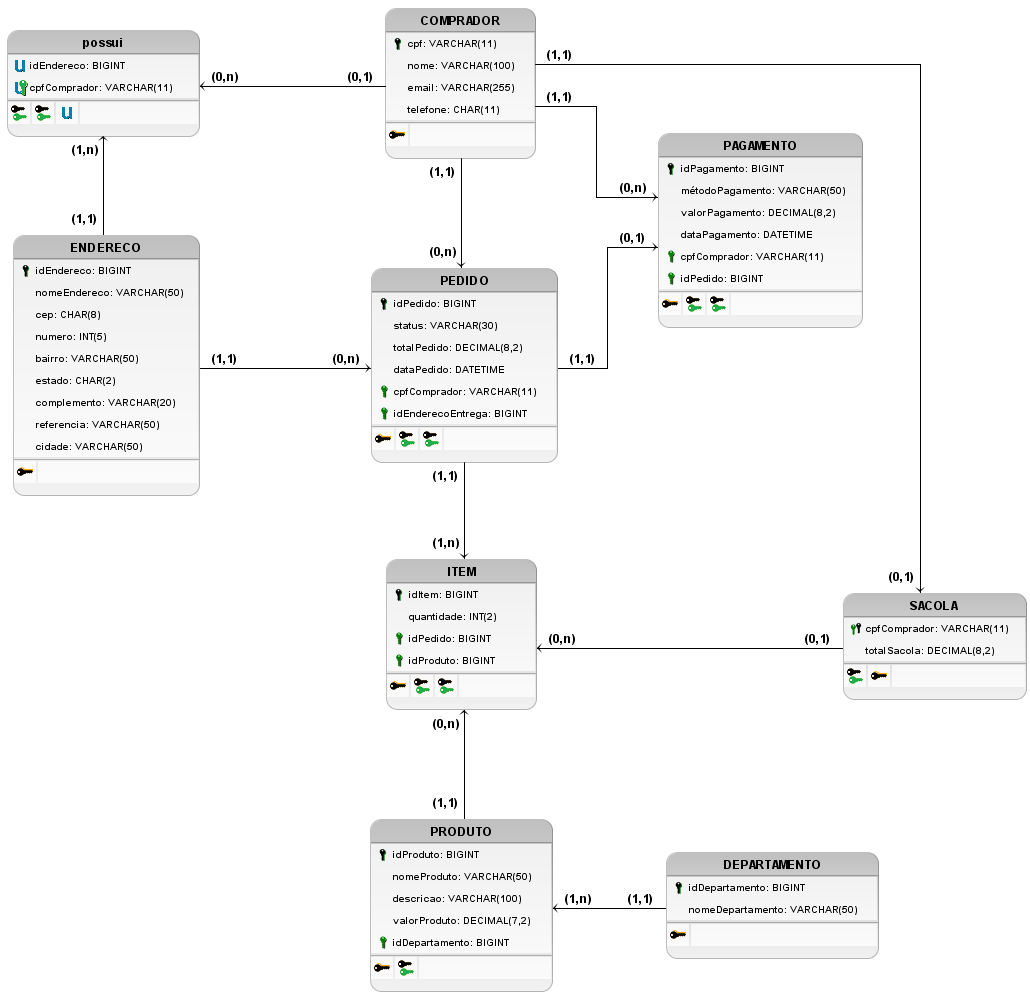
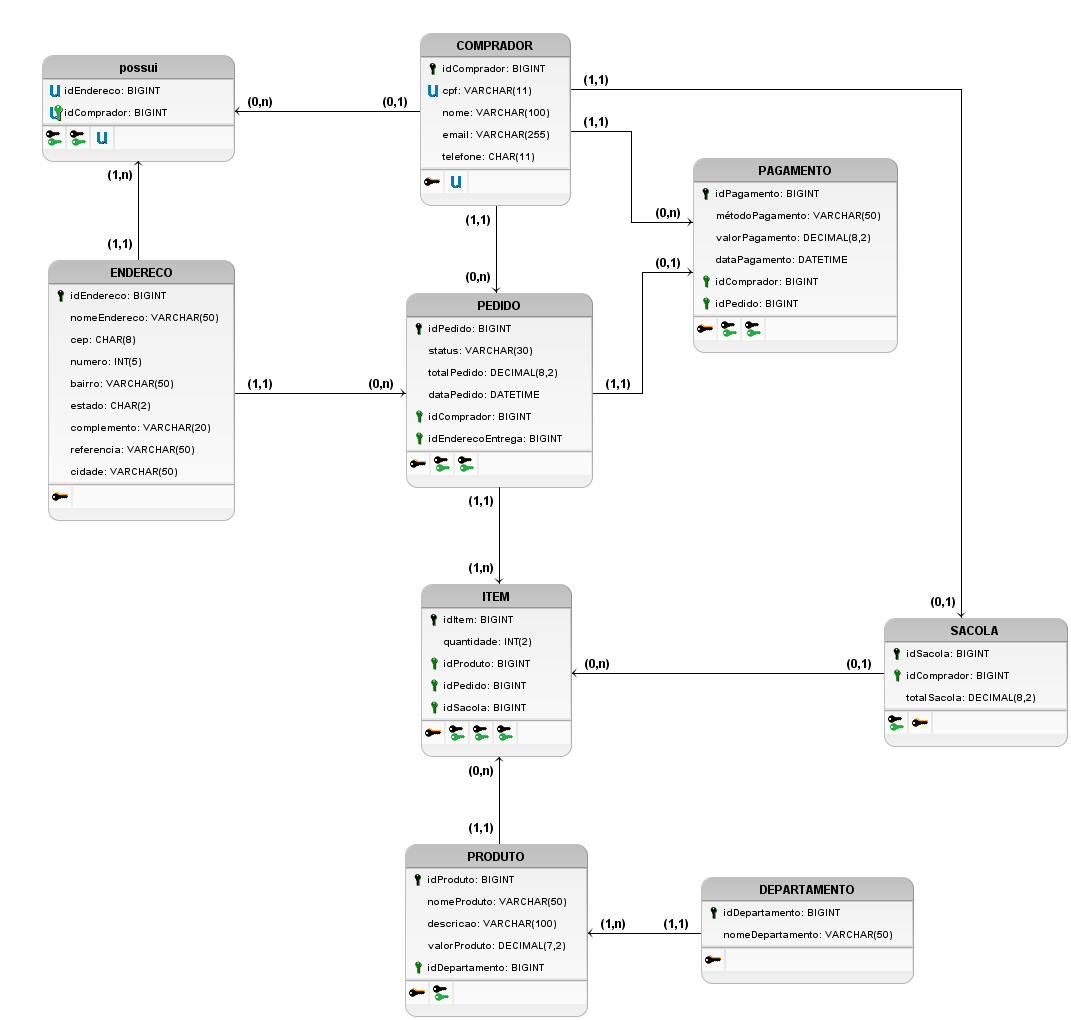
docs: corrige visao dados e adiciona conclusao

diff --git a/docs/ArquiteturaReutilizacao/visoes/visao-dados.md b/docs/ArquiteturaReutilizacao/visoes/visao-dados.md
@@ -1,12 +1,10 @@
-Em um sistema de e-commerce como o da Magalu, a camada de persistência de dados é importantíssima, são armazenados dados dos diferentes usuários, produtos, departamentos, pedidos, pagamentos, entre outros. Dito isso, a visão de dados da arquitetura permite uma descrição mais clara e concisa de quais são os dados do sistema, sua estruturação e como eles são persistidos.
+Em um sistema de e-commerce como o da Magalu, a camada de persistência de dados é importantíssima, visto que são armazenados dados dos diferentes usuários, produtos, departamentos, pedidos, pagamentos, entre outros. Dito isso, a visão de dados da arquitetura permite uma descrição mais clara e concisa de quais são os dados do sistema, sua estruturação e como eles são persistidos.
 
 ### Metodologia
 
 O banco de dados da aplicação foi modelado como um banco de dados relacional. Sendo assim, foram elaborados um total de três artefatos, sendo eles: o [Modelo Entidade-Relacionamento (MER)](#modelo-entidade-relacionamento) e o [Diagrama Entidade-Relacionamento (DER)](#diagrama-entidade-relacionamento), ambos no nível conceitual, e o [Diagrama Lógico de Dados (DLD)](#diagrama-lógico-de-dados) no nível lógico. 
 
 O esqueleto inicial do MER foi elaborado no dia 23/11/2023 com base no que já tinha sido modelado no [diagrama de classes](../../Modelagem/DiagramaClasses.md), sendo posteriormente refinado com base em discussões realizadas em uma reunião de brainstorming entre os membros do grupo. Após isso, o DER foi feito com base no que havia no MER e, diminuindo-se o nível de abstração, adentrou-se no nível lógico com o DLD.
-
-
 
 ### Modelo Entidade Relacionamento
 
@@ -104,3 +102,8 @@ Figura 2 - Diagrama Lógico de Dados
 </center>
 
 
+### Conclusão
+
+A representação dos dados por meio do Modelo Entidade-Relacionamento (MER), do Diagrama Entidade-Relacionamento (DER) e do Diagrama Lógico de Dados (DLD) proporcionou uma visão abrangente e detalhada das estruturas de persistência de dados do sistema. 
+
+Por um lado, com o MER e o DER, a visão de dados se aproxima de uma perspectiva mais conceitual e de nível de abstração semelhante à [visão lógica](#Visão-Lógica), já por outro, com a presença do DLD, apresenta uma visão mais física e próxima da implementação do código do banco de dados em si, com o próximo nível sendo justamente a implementação que pode ser observada no tópico de [Reutilização de Software]().

diff --git a/docs/ArquiteturaReutilizacao/DAS.md b/docs/ArquiteturaReutilizacao/DAS.md
@@ -38,3 +38,4 @@
 |----------|------------|-------------|------------|-----------|
 | 1.0      | Criação da estrutura da página   | [Douglas Alves](https://github.com/dougAlvs)   |  [Sidney Fernando](https://github.com/nando3d3)  | 23/11/2023|
 | 1.0.1      | Adição da versão inicial da visão de dados   | [Douglas Alves](https://github.com/dougAlvs)   |  [Sidney Fernando](https://github.com/nando3d3)  | 24/11/2023|
+| 1.0.2      | Refinamento dos diagramas e adição da conclusão | [Douglas Alves](https://github.com/dougAlvs)   |  [Arthur de Melo](https://github.com/arthurmlv)  | 30/11/2023|
